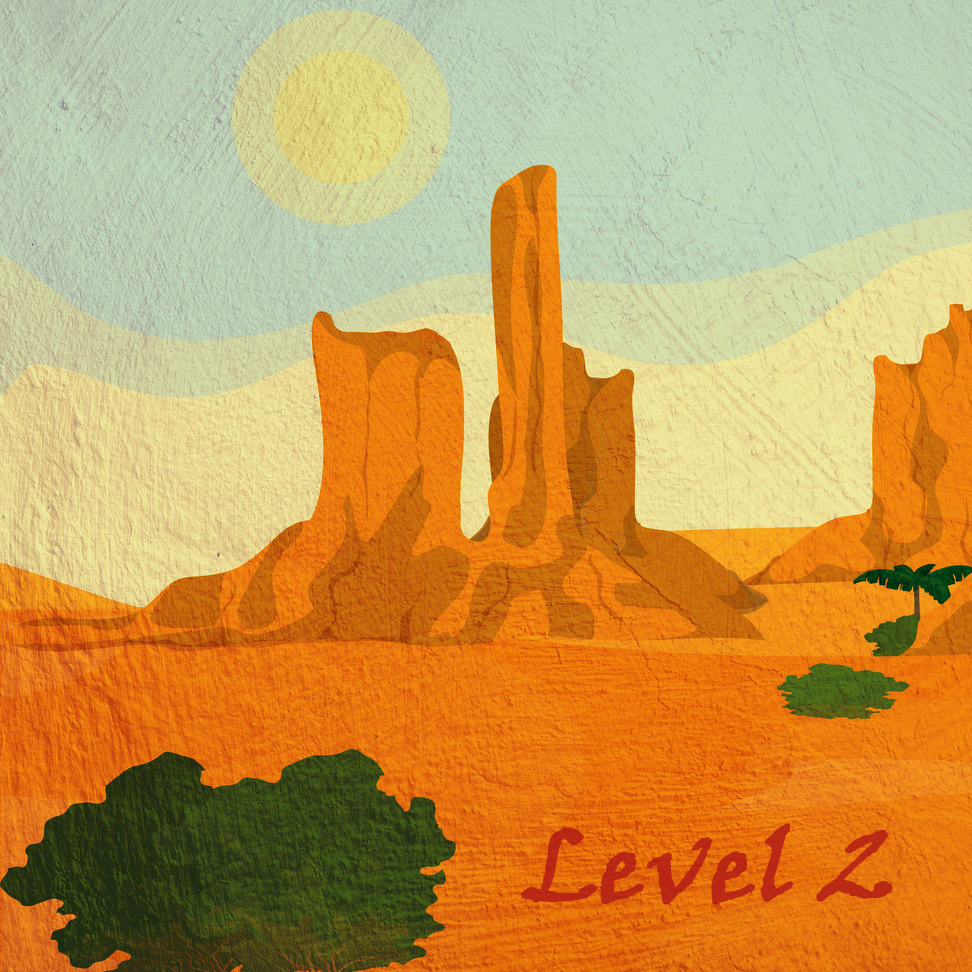
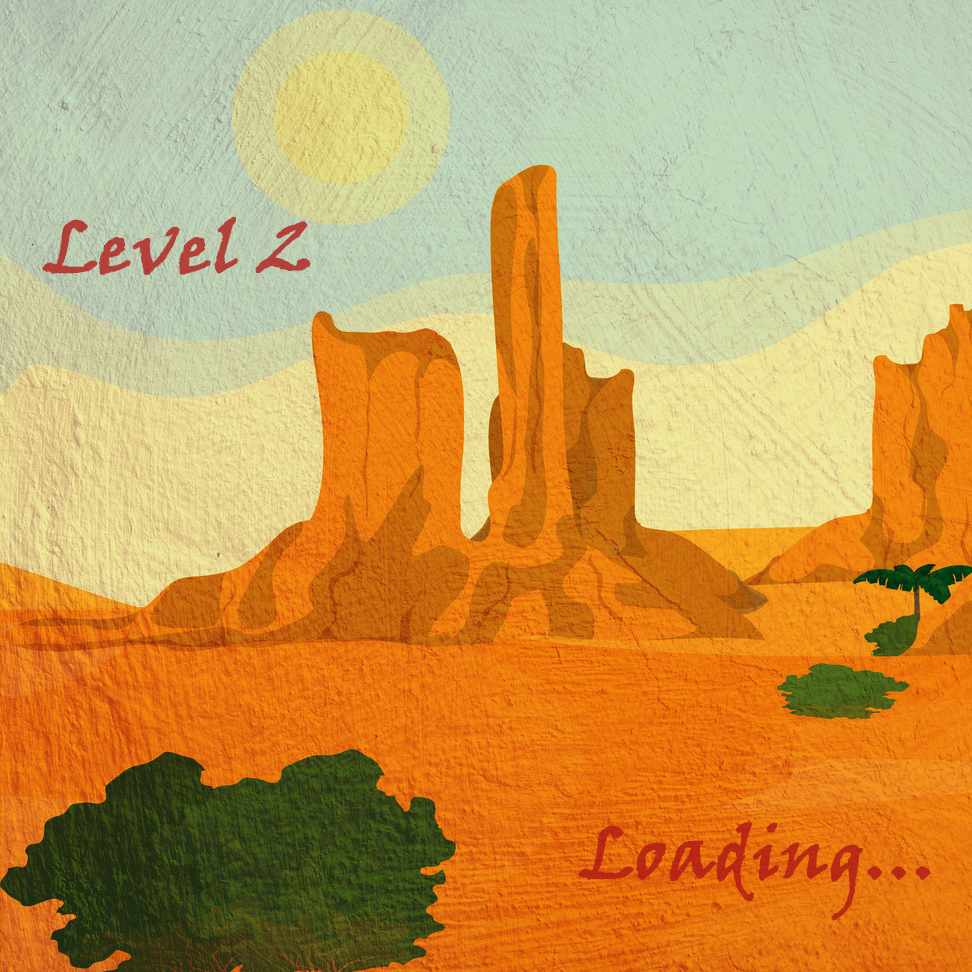
Seleccion de pantalla de carga

Changed region(s): [[0.5247, 0.8333, 0.9568, 0.9568], [0.0309, 0.216, 0.3395, 0.3086]]

diff --git a/sourcefiles/Mundo.cpp b/sourcefiles/Mundo.cpp
@@ -66,6 +66,8 @@ void Mundo::update()
 {
     if(estado==4)  // Estado de pantalla de carga
     {   
+        carga->update();
+        
         if(cargado==false && loading==true)
         {
             cargaNivel(); // Carga del nivel 
@@ -528,7 +530,7 @@ void Mundo::camUpdate(const glm::f32 frameDeltaTime){
 
         case 4: // PANTALLA DE CARGA
         {
-            cam->setPosicion(vec3(58.5,5000*posopc,-23));
+            cam->setPosicion(vec3(58.7,5000*posopc,-23.5));
             break;
         }
 
@@ -1029,7 +1031,8 @@ void Mundo::controlCambioNivel()
     {
         if(prota->getPosition()->getPosY()<salidaNivel->getPosY()+10 && prota->getPosition()->getPosY()>salidaNivel->getPosY()-10)
         {
-            cambiarNivel();
+            estado = 4;
+            //cambiarNivel();
         }
     }
 
@@ -1093,7 +1096,7 @@ void Mundo::cargaNivel()
     prota->setNode(fachada->addAnimacion(0, 0, 30, "resources/Animaciones/marcha5/marcha5.txt", prota->getNode(), 2));
     prota->setNode(fachada->addAnimacion(0, 0, 30, "resources/Animaciones/saltoadelante/saltoadelante.txt", prota->getNode(),3));
     prota->setNode(fachada->addAnimacion(0, 0, 30, "resources/Animaciones/correr/correr.txt", prota->getNode(),4));
-   // prota->setNode(fachada->addAnimacion(0, 0, 30, "resources/Animaciones/saltocarrera/saltocarrera.txt", prota->getNode(),5));
+  // prota->setNode(fachada->addAnimacion(0, 0, 30, "resources/Animaciones/saltocarrera/saltocarrera.txt", prota->getNode(),5));
     //prota->setNode(fachada->addAnimacion(0, 0, 30, "resources/Animaciones/salto/salto.txt", prota->getNode(),6));
     prota->setNode(fachada->addAnimacion(0, 0, 30, "resources/Animaciones/Prueba/prueba", prota->getNode(), 1));
 

diff --git a/sourcefiles/PantallaCarga.cpp b/sourcefiles/PantallaCarga.cpp
@@ -1,11 +1,13 @@
 #include "../headerfiles/PantallaCarga.h"
 
-PantallaCarga::PantallaCarga(Posicion* pos): cargaLevel1(nullptr)
+PantallaCarga::PantallaCarga(Posicion* pos): cargaLevel1(nullptr), cargaLevel2(nullptr), cargaLevel3(nullptr), fachada(nullptr)
 {
 	
-	Fachada* fachada=fachada->getInstance();
+	fachada=fachada->getInstance();
 
     cargaLevel1 = fachada->addMalla(pos->getPosX()*1.5,pos->getPosY()*5,pos->getPosZ(), "resources/PantallaCarga/level1.obj");
+    cargaLevel2 = fachada->addMalla(pos->getPosX()*1.5,pos->getPosY()*5,pos->getPosZ(), "resources/PantallaCarga/level2.obj");
+    cargaLevel3 = fachada->addMalla(pos->getPosX()*1.5,pos->getPosY()*5,pos->getPosZ(), "resources/PantallaCarga/level3.obj");
  
     
     
@@ -18,6 +20,7 @@ PantallaCarga::PantallaCarga(Posicion* pos): cargaLevel1(nullptr)
 	}
 
     estado = 4;
+    pantallaCarga = 1;
 
 }
 
@@ -25,8 +28,35 @@ int PantallaCarga::getEstado()
 {
     return estado;
 }
-void PantallaCarga::update(int n)
+
+void PantallaCarga::setPantallaCarga(int p)
 {
+	pantallaCarga = p;
+}
+void PantallaCarga::update()
+{
+	switch(pantallaCarga)
+	{
+
+		case 1: // Pantallo Carga level 1
+		{
+			fachada->setMalla(cargaLevel1, "resources/PantallaCarga/level1.obj");
+			break;
+		}
+
+		case 2: // Pantallo Carga level 2
+		{
+			fachada->setMalla(cargaLevel2, "resources/PantallaCarga/level2.obj");
+			break;
+		}
+
+		case 3: // Pantallo Carga level 3
+		{
+			fachada->setMalla(cargaLevel3, "resources/PantallaCarga/level3.obj");
+			break;
+		}
+
+	}
   
 }
 

diff --git a/headerfiles/PantallaCarga.h b/headerfiles/PantallaCarga.h
@@ -9,13 +9,15 @@ class PantallaCarga
 
 	public:
 		PantallaCarga( Posicion* pos);
-        void update(int n);
+        void update();
         int getEstado();
+        void setPantallaCarga(int p);
 
 	private:
 
-		void* cargaLevel1;
-		int estado;
+		void* cargaLevel1, *cargaLevel2, *cargaLevel3;
+		int estado, pantallaCarga;
+		Fachada* fachada;
       
 };
 
